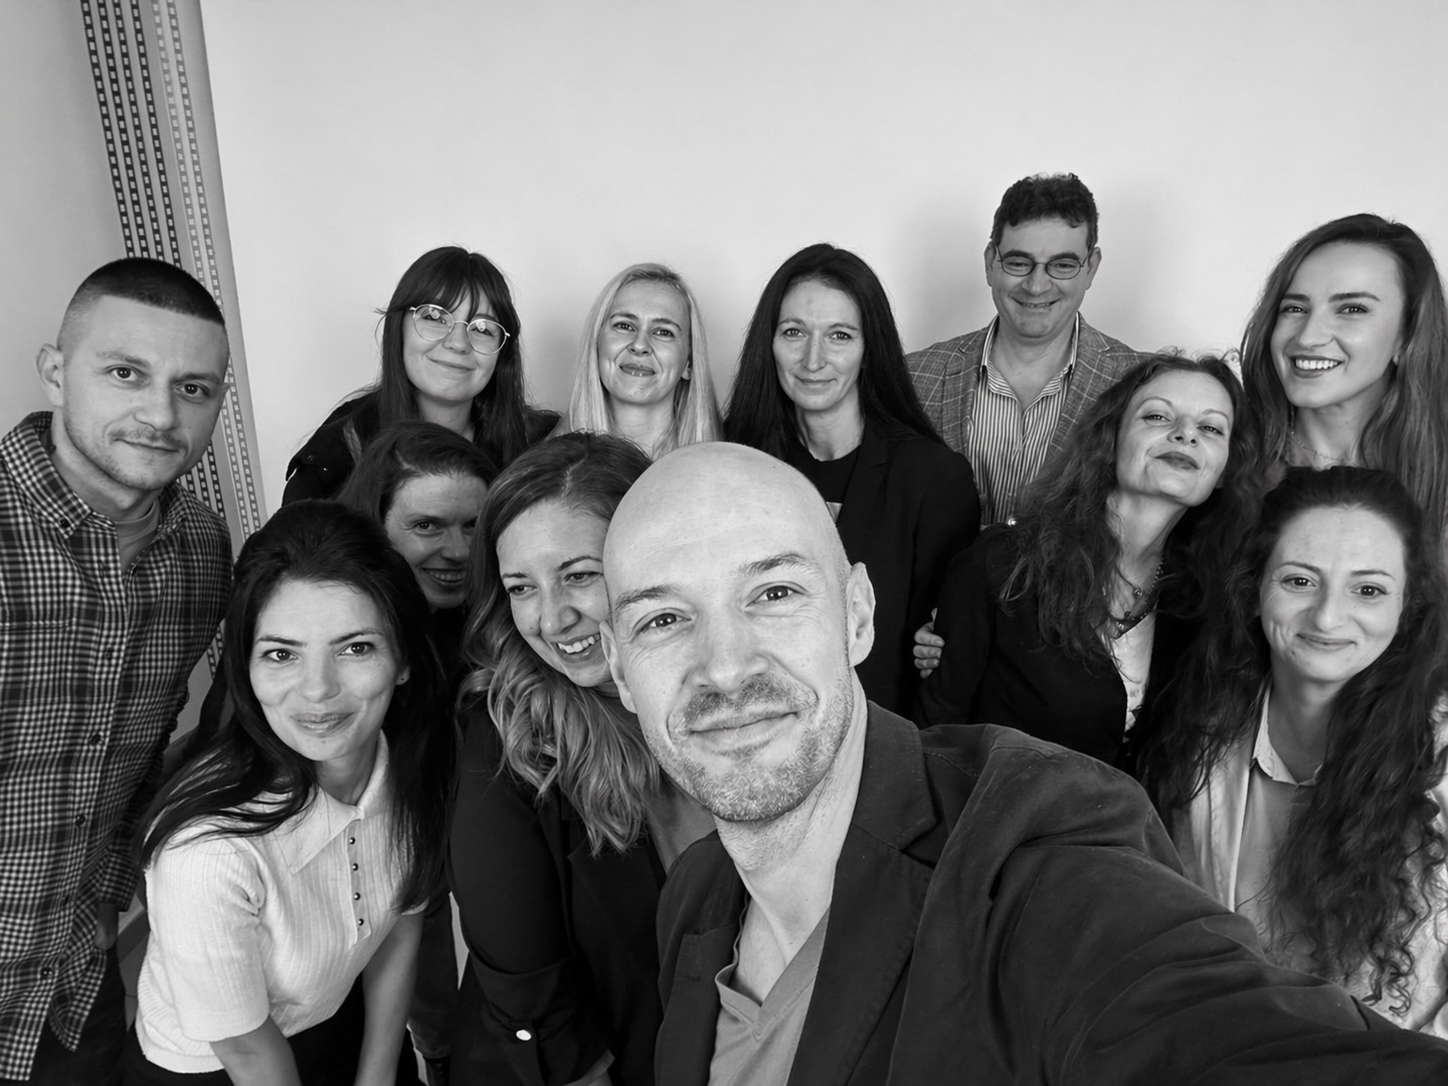
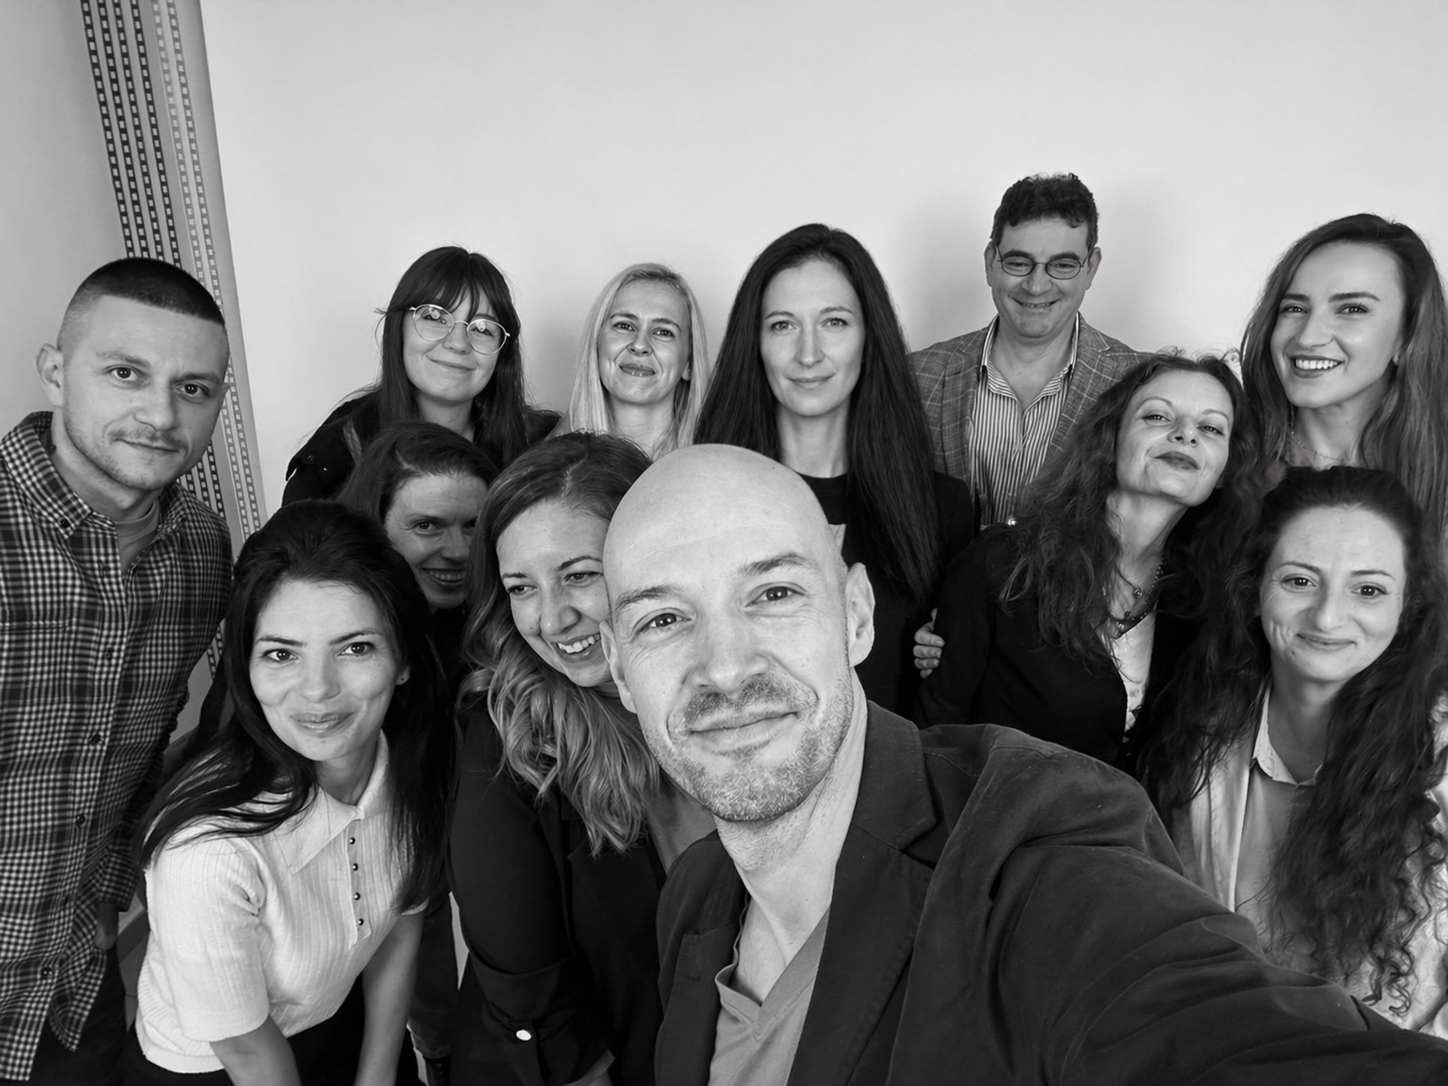
added new image, testing movable img background

Changed region(s): [[0.4662, 0.1823, 0.6837, 0.5166], [0.5283, 0.5166, 0.5594, 0.547]]

diff --git a/src/components/layout/page-bg.tsx b/src/components/layout/page-bg.tsx
@@ -1,0 +1,132 @@
+"use client"
+
+import { useEffect, useRef, memo } from "react"
+import Image from "next/image"
+
+// ─── 3 LAYERS — LIGHT & SIMPLE ───────────────────────────────────────────
+const LAYERS = [
+  {
+    src: "/backgrounds/7.png",
+    scrollSpeed: 0.08,
+    rotateSpeed: 0.008,
+    scale: 1.5,
+    opacity: 0.25,
+  },
+  {
+    src: "/backgrounds/8.png",
+    scrollSpeed: 0.25,
+    rotateSpeed: -0.012,
+    scale: 1.4,
+    opacity: 0.2,
+  },
+  {
+    src: "/backgrounds/7.png",
+    scrollSpeed: 0.45,
+    rotateSpeed: 0.016,
+    scale: 1.35,
+    opacity: 0.15,
+  },
+  {
+    src: "/backgrounds/8.png",
+    scrollSpeed: 0.45,
+    rotateSpeed: 0.016,
+    scale: 1.35,
+    opacity: 0.15,
+  },
+  {
+    src: "/backgrounds/7.png",
+    scrollSpeed: 0.45,
+    rotateSpeed: 0.016,
+    scale: 1.35,
+    opacity: 0.15,
+  },
+  {
+    src: "/backgrounds/8.png",
+    scrollSpeed: 0.45,
+    rotateSpeed: 0.016,
+    scale: 1.35,
+    opacity: 0.15,
+  },
+]
+// ─────────────────────────────────────────────────────────────────────────
+
+export const PageBackground = memo(function PageBackground() {
+  const layerRefs = useRef<(HTMLDivElement | null)[]>([])
+
+  useEffect(() => {
+    let rafId: number
+
+    const onScroll = () => {
+      rafId = requestAnimationFrame(() => {
+        const scrollY = window.scrollY
+        const maxScroll = document.body.scrollHeight - window.innerHeight
+        const progress = Math.min(scrollY / maxScroll, 1)
+
+        layerRefs.current.forEach((el, i) => {
+          if (!el) return
+          const layer = LAYERS[i]
+          const phase = i * (Math.PI / LAYERS.length)
+
+          const translateY = scrollY * layer.scrollSpeed
+          const translateX = Math.sin(progress * Math.PI + phase) * 3
+          const rotate     = scrollY * layer.rotateSpeed
+
+          el.style.transform = `
+            translateY(${translateY}px)
+            translateX(${translateX}%)
+            rotate(${rotate}deg)
+            scale(${layer.scale})
+          `
+        })
+      })
+    }
+
+    window.addEventListener("scroll", onScroll, { passive: true })
+    onScroll()
+    return () => {
+      window.removeEventListener("scroll", onScroll)
+      cancelAnimationFrame(rafId)
+    }
+  }, [])
+
+  return (
+    <div
+      aria-hidden="true"
+      className="fixed inset-0 w-full h-full pointer-events-none overflow-hidden"
+      style={{ zIndex: 0 }}
+    >
+      {/* Single soft white overlay — keeps everything light */}
+      <div
+        className="absolute inset-0 z-10"
+        style={{ background: "rgba(255,255,255,0.55)" }}
+      />
+
+      {LAYERS.map((layer, i) => (
+        <div
+          key={i}
+          className="absolute inset-0"
+          style={{ opacity: layer.opacity }}
+        >
+          <div
+            ref={(el) => { layerRefs.current[i] = el }}
+            className="will-change-transform"
+            style={{
+              position: "absolute",
+              inset: "-120%",
+              transformOrigin: "center center",
+            }}
+          >
+            <Image
+              src={layer.src}
+              alt=""
+              fill
+              className="object-cover object-center"
+              priority={i === 0}
+              sizes="350vw"
+            />
+          </div>
+        </div>
+      ))}
+    </div>
+  )
+})

diff --git a/src/app/_components/services-section/services.tsx b/src/app/_components/services-section/services.tsx
@@ -6,6 +6,8 @@ import { SERVICES, type Service } from "@/lib/constants/services"
 import { MobileServiceItem } from "./mobile-service-item"
 import { DesktopServiceCard } from "./desktop-service-card"
 import { DesktopPanel } from "./desktop-panel"
+import Image from "next/image"
+
 
 
 export function Services() {
@@ -26,13 +28,21 @@ export function Services() {
   }, [])
 
   return (
-    <section
-      id="services"
-      className="relative py-24 lg:py-32 lg:pb-[170px] md:pb-[50px]-bg overflow-hidden"
-    >
-
-
- 
+    <section id="services" className="relative py-24 lg:py-32 lg:pb-[170px] md:pb-[50px]-bg overflow-hidden">
+      <div className="absolute inset-0 -z-10">
+        {/* <div className="sticky top-0 h-screen w-full">
+          <Image
+            src="/uploaded/bg1.png"
+            alt="Hero background"
+            fill
+            priority
+            quality={90}
+            className="object-cover object-center scale-110"
+            style={{ willChange: "transform" }}
+          />
+          <div className="absolute inset-0 bg-white/60" />
+        </div> */}
+      </div>
 
       <div className="relative z-10 max-w-7xl mx-auto px-6 lg:px-8">
         {/* Section header */}
@@ -71,7 +81,7 @@ export function Services() {
 
         <div className="text-center">
           <p className="text-xl text-brand-navy/50 leading-relaxed mt-[80px]">
-           We provide end-to-end IT recruitment services, helping companies hire tech professionals locally and globally.
+            We provide end-to-end IT recruitment services, helping companies hire tech professionals locally and globally.
           </p>
         </div>
       </div>

diff --git a/src/app/_components/hero/hero.tsx b/src/app/_components/hero/hero.tsx
@@ -1,6 +1,7 @@
 "use client"
 
 import { useCallback, memo } from "react"
+import Image from "next/image"
 import { Button } from "@/components/ui/button"
 import { scrollToSection } from "@/lib/utils/scroll"
 import { useAnimatedCounter } from "@/lib/hooks/use-animated-counter"
@@ -35,6 +36,21 @@ export const Hero = memo(function Hero() {
   return (
     <section className="relative min-h-screen flex items-center justify-center text-center pt-24 pb-16 lg:pt-32 lg:pb-24 overflow-hidden bg-transparent">
 
+      {/* <div className="absolute inset-0 -z-10">
+        <div className="sticky top-0 h-screen w-full">
+          <Image
+            src="/uploaded/bg.png" 
+            alt="Hero background"
+            fill
+            priority
+            quality={90}
+            className="object-cover object-center scale-110"
+            style={{ willChange: "transform" }}
+          />
+          <div className="absolute inset-0 bg-white/60" />
+        </div>
+      </div> */}
+
       <div className="absolute top-[88px] left-0 right-0 h-px bg-brand-navy/8 pointer-events-none" />
 
       <div className="relative z-10 max-w-5xl mx-auto px-6 lg:px-10 xl:px-12 w-full flex flex-col items-center">
@@ -44,25 +60,21 @@ export const Hero = memo(function Hero() {
             <span className="animate-ping absolute inline-flex h-full w-full rounded-full bg-green-500 opacity-75"></span>
             <span className="relative inline-flex rounded-full h-2 w-2 bg-green-500"></span>
           </span>
-
           <span className="text-xs sm:text-sm font-medium text-[#0a3d62] leading-tight">
             Hiring for Startups, SMBs, Enterprise in EU / US
           </span>
         </div>
 
-        {/* Headline */}
         <h1 className="text-[clamp(2.4rem,5.5vw,4.5rem)] font-bold text-brand-navy leading-[1.08] tracking-tight mb-7 animate-fade-in-up delay-100 text-center">
           IT Recruitment Agency for
           <br />
           <span className="text-brand-navy">Tech Roles</span>
         </h1>
 
-        {/* Body */}
         <p className="text-base lg:text-lg text-brand-navy/55 max-w-xl leading-relaxed mb-10 animate-fade-in-up delay-200 text-center">
           We connect companies with IT professionals through recruitment and talent acquisition services.
         </p>
 
-        {/* CTAs */}
         <div className="flex flex-col sm:flex-row items-center justify-center gap-3 mb-16 animate-fade-in-up delay-300">
           <Button
             onClick={() => handleNavigate("#contact")}
@@ -83,7 +95,6 @@ export const Hero = memo(function Hero() {
           </Button>
         </div>
 
-        {/* Stats */}
         <div className="flex flex-wrap justify-center gap-x-10 gap-y-6 animate-fade-in-up delay-[400ms]">
           <AnimatedCounter value="650+" label="Successful IT Hirings" />
           <AnimatedCounter value="12" label="Senior Tech Recruiters" />
@@ -91,7 +102,6 @@ export const Hero = memo(function Hero() {
           <AnimatedCounter value="1" label="In-House Smart.R ATS" />
         </div>
 
-        {/* Scroll */}
         <div className="absolute -bottom-12 left-1/2 -translate-x-1/2 hidden lg:flex flex-col items-center gap-1">
           <button
             onClick={() => handleNavigate("#services")}

diff --git a/src/app/page.tsx b/src/app/page.tsx
@@ -23,6 +23,7 @@ import {
   ContactForm,
   ExpertiseSection,
 } from "@/app/_components"
+// import { PageBackground } from "@/components/layout/page-bg"
 // import { PageBackground } from "@/components/layout/page-background"
 
 
@@ -39,6 +40,8 @@ export default function LandingPage() {
       <SocialSidebar />
 
           {/* <PageBackground /> */}
+
+{/* <PageBackground/> */}
 
       {/* Hero Section */}
       <ScrollReveal>

diff --git a/src/app/_components/team-section/photo-gallery.tsx b/src/app/_components/team-section/photo-gallery.tsx
@@ -9,6 +9,7 @@ const GALLERY_PHOTOS = [
   { src: "/uploaded/team.jpg",  alt: "Team photo 1" },
   { src: "/uploaded/team1.png", alt: "Team photo 2" },
   { src: "/uploaded/team3.png", alt: "Team photo 4" },
+  { src: "/uploaded/team4.png", alt: "Team photo 4" },
 ]
 
 const THUMBS_PER_PAGE = 3